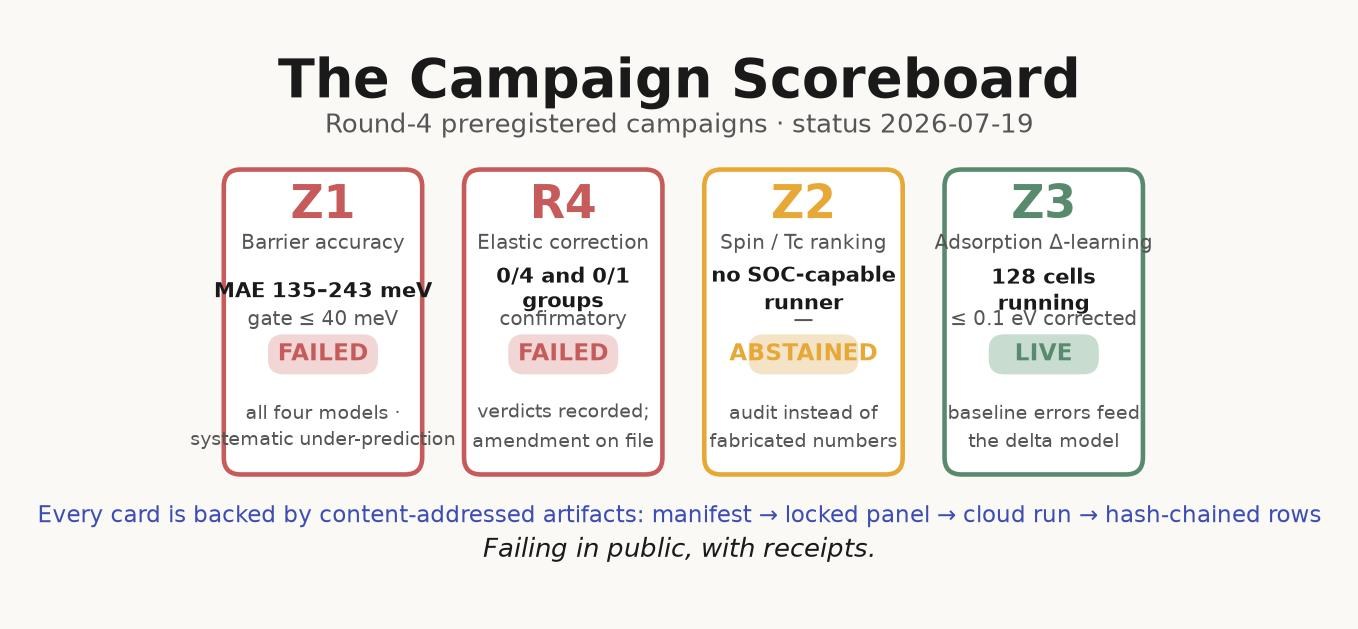
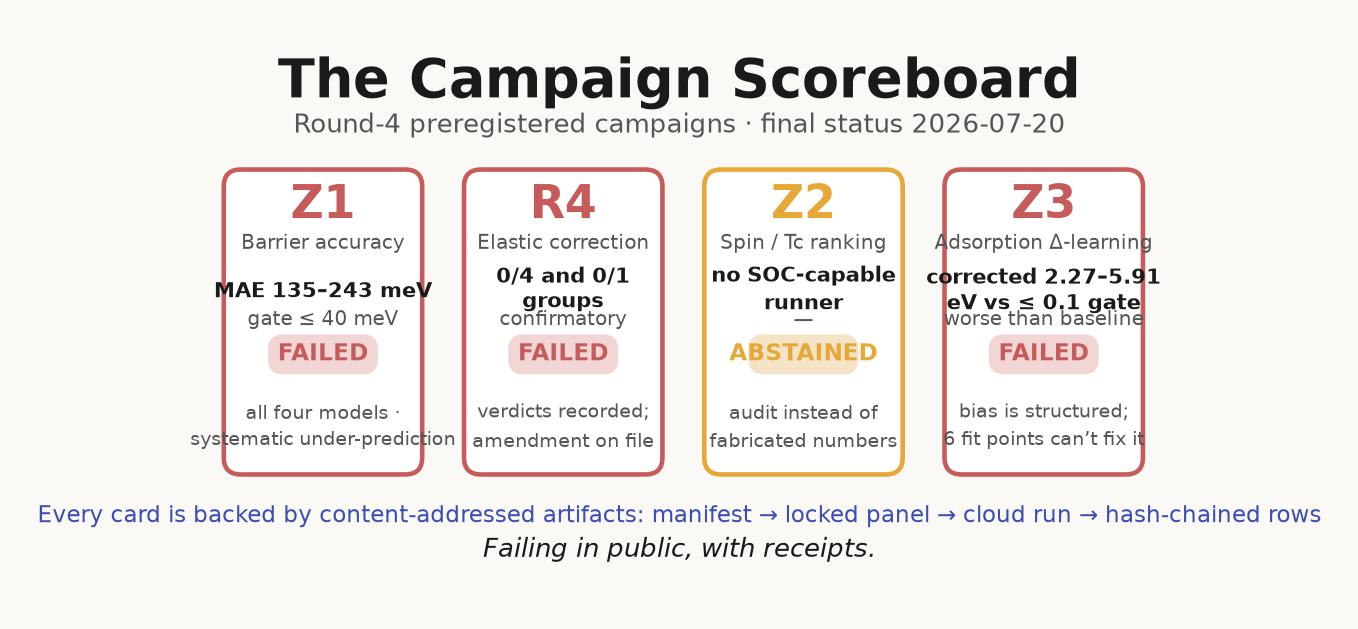
feat(article): four-gates final status — Z3 verdict + Z1 float64 confirmation
Z3 section rewritten with the complete verdict: baseline table and the
refuted delta correction (corrected holdout worse than raw baseline for
all four models; structured-bias analysis). Z1 section updated: float64
verdicts identical to within 0.1 meV — miss is model error, not noise.
Scoreboard regenerated with Z3 FAILED; lead and next-steps moved to
final status; library.lupine.science linked for the full records.

Local: build + verify + lint + 72 tests green.

Changed region(s): [[0.6804, 0.2719, 0.866, 0.7854], [0.2165, 0.1812, 0.8041, 0.2114], [0.7113, 0.2417, 0.8351, 0.3625]]

diff --git a/public/articles/four-gates-three-honest-failures-one-live-experiment/index.html b/public/articles/four-gates-three-honest-failures-one-live-experiment/index.html
@@ -74,7 +74,7 @@
       <p class="article-kicker" aria-label="Article type">Research note</p>
 <h1>Four Gates, Three Honest Failures, One Live Experiment</h1>
 <p class="article-deck">A plain-language status report on our four preregistered Round-4 campaigns — what we measured, what failed, what is still running, and how you can check every number</p>
-<ul class="article-byline" aria-label="Publication details"><li><time datetime="2026-07-19">July 19, 2026</time></li> <li aria-hidden="true"><span class="byline-sep" aria-hidden="true">·</span></li> <li><span class="article-status">Draft</span></li></ul>
+<ul class="article-byline" aria-label="Publication details"><li><time datetime="2026-07-19">July 19, 2026</time></li> <li aria-hidden="true"><span class="byline-sep" aria-hidden="true">·</span></li> <li><span class="article-status">Published</span></li></ul>
 <figure class="article-hero">
   <picture>
     <img src="/articles/four-gates-three-honest-failures-one-live-experiment/hero.jpg?v=2" alt="" width="1280" height="720" loading="eager" fetchpriority="high" decoding="async">
@@ -83,7 +83,7 @@
 
 <hr>
 <p><img src="images/four-gates-three-honest-failures-one-live-experiment-01-four-gates-scoreboard.jpg?v=2" alt="The Campaign Scoreboard"></p>
-<p class="lead">Every few months we write down, in advance and in public, what our software stack must prove about itself — then we force it to actually try. This week three of those gates reported in. All three answers are "no." The fourth experiment is running as you read this. None of that is a disaster; it is the point of having gates at all. Here is the status of each campaign, in plain language, with the receipts.</p>
+<p class="lead">Every few months we write down, in advance and in public, what our software stack must prove about itself — then we force it to actually try. This week all four of those gates reported in. All four answers are "no" — three failures and one principled abstention. None of that is a disaster; it is the point of having gates at all. Here is the final status of each campaign, in plain language, with the receipts.</p>
 <h2>The setup, in one paragraph</h2>
 <p>Modern “foundation” machine-learning potentials — in our panel, three sizes of MACE and one CHGNet — promise to predict how atoms behave without running expensive quantum simulations. If they were accurate enough, battery materials and catalysts could be screened at computer speed. The question our Round-4 campaigns ask is narrow and unforgiving: <em>accurate enough, by how much, measured against which references, locked before we ran anything?</em> Each campaign has a preregistered acceptance test (a “gate”), a locked panel of test systems, and a pipeline that records every artifact by its content hash — so a number cannot be quietly edited after the fact.</p>
 <h2>Z1 — the battery-barrier test: failed, systematically</h2>
@@ -91,30 +91,68 @@
 <p><strong>The answer.</strong> Not close — and interestingly not close:</p>
 <p><img src="images/four-gates-three-honest-failures-one-live-experiment-02-z1-barrier-mae-vs-gate.jpg?v=2" alt="Z1: all four models miss the barrier gate; every completed path under-predicts the barrier"></p>
 <p>The best model missed by 3.4×, the worst by 6×. More telling than the size of the miss is its <em>shape</em>: for the model with full per-path data, <strong>all 26 completed paths under-predict the barrier</strong>. Random noise scatters in both directions; a one-sided miss is a systematic bias — these models, trained mostly on near-equilibrium structures, consistently underestimate how hard it is for an ion to squeeze through a transition state. That is exactly the failure mode our “Honest Errors” program exists to catch, and it replicates, at 30-chemistry scale, a smaller five-compound result we reported (and retracted the corresponding claim for) last round.</p>
-<p>Two honesty notes. First, 1–4 of the 30 paths per model failed to converge under the frozen protocol; the pipeline records them as failures rather than estimating around them, so the MAEs above are computed only on completed paths. Second, our first execution ran the models at reduced numerical precision (float32) against the vendor’s guidance for geometry optimization. We caught it, fixed it, and re-ran the full panel at float64 — the first run stays on record as executed; the re-run is a separate measurement chain, and we will report both. (Early float64 results were still coming in at publication time.)</p>
+<p>Two honesty notes. First, 1–4 of the 30 paths per model failed to converge under the frozen protocol; the pipeline records them as failures rather than estimating around them, so the MAEs above are computed only on completed paths. Second, our first execution ran the models at reduced numerical precision (float32) against the vendor’s guidance for geometry optimization. We caught it, fixed it, and re-ran the full panel at float64 — the first run stays on record as executed; the re-run is a separate measurement chain, and we report both. <strong>The float64 verdicts are identical to within 0.1 meV (135.0 / 151.9 / 174.7 / 242.5): the miss is model error, not numerical noise — full stop.</strong></p>
 <h2>Round-4 — the elastic-correction test: failed, with an amendment on file</h2>
 <p><strong>The question.</strong> Can our correction layer improve foundation-model predictions of basic mechanical properties (lattice constant, bulk modulus, elastic constants) on held-out materials?</p>
 <p><strong>The answer.</strong> No — both confirmatory groups failed (0/4 and 0/1). We also found, in pre-review before ingestion, that we had violated our own preregistration: the analysis tool was written <em>after</em> the candidate lock it was supposed to precede, one property (B₀) was counted in a denominator the preregistration said was descriptive-only, and some elastic numbers rested on shakier methodology than the claim required. Rather than tidy that up quietly, we filed an <strong>amendment</strong> alongside the results that records each violation, what was repaired, and what cannot be retroactively rescued. The verdicts did not change under the repairs — they were failures either way, and they are now immutable, hash-verified failures.</p>
 <h2>Z2 — the magnetism test: abstained, on purpose</h2>
 <p><strong>The question.</strong> Can the panel rank magnetic-anisotropy and ordering temperatures?</p>
 <p><strong>The answer.</strong> We can’t ask it — not honestly. None of the declared available models exposes the spin-orbit / non-collinear machinery the measurement requires, and no suitable locked reference panel exists. The old move in this situation is to run <em>something</em> and spin the story. Our move was an <strong>abstention audit</strong>: a content-addressed document stating precisely what can and cannot be claimed, plus one hash-chained “unsupported” row per model. Building a spin-capable runner is now a scoped engineering task, parked until the current campaigns close.</p>
-<h2>Z3 — the catalyst-adsorption test: live right now</h2>
+<h2>Z3 — the catalyst-adsorption test: failed, and the failure taught us why</h2>
 <p><strong>The question.</strong> Can a small <em>correction model</em> (Δ-learning) lift foundation-model adsorption energies to within <strong>0.1 eV</strong> of published DFT references on 20 held-out catalyst systems — the accuracy catalyst screening needs?</p>
-<p><strong>The status.</strong> Running. The baseline measurements — 4 models × 32 systems on Cloud Run — are executing as of this writing. And the very first baseline datapoint explains why the campaign is designed this way:</p>
+<p><strong>The answer.</strong> No — and the reason is more useful than a pass would have been. The baseline measurements (4 models × 32 systems, 128/128 completed, zero failures) confirmed the first datapoint’s pattern at panel scale: every MACE variant underbinds nearly everything, with errors from −1 to <strong>+25.6 eV</strong> growing with molecule size.</p>
 <p><img src="images/four-gates-three-honest-failures-one-live-experiment-03-z3-interface-error-anatomy.jpg?v=2" alt="Z3 first datapoint: the whole miss lives at the interface"></p>
-<p>For a 43-atom biomass molecule on nickel, the model’s total-energy errors on the separate pieces are modest — but the <em>interface</em> is off by <strong>+9.8 eV</strong>. The model barely binds a molecule that DFT (with dispersion corrections) binds strongly. That is chemically sensible: foundation models are trained mostly on bulk crystals, without the long-range dispersion physics that glues big organic molecules to metal surfaces. A systematic, physically-understood bias is precisely what Δ-learning can correct — the campaign fits the correction on 6 training systems, validates on 6 more, and only then scores the 20 held-out systems. Whether it clears the 0.1 eV gate is what the next field note will report.</p>
+<p>Then came the honest part. The correction model was fitted on the 6 training systems and selected on the 6 validation systems, exactly as frozen — and on the 20-system holdout, <strong>every selected correction made things worse than doing nothing</strong>:</p>
+<table>
+<thead>
+<tr>
+<th>Model</th>
+<th>Raw baseline MAE</th>
+<th>After Δ-correction</th>
+<th>Gate ≤ 0.1 eV</th>
+</tr>
+</thead>
+<tbody>
+<tr>
+<td>chgnet</td>
+<td>0.69 eV</td>
+<td>2.27 eV</td>
+<td>✗</td>
+</tr>
+<tr>
+<td>mace-mp-medium</td>
+<td>2.11 eV</td>
+<td>5.01 eV</td>
+<td>✗</td>
+</tr>
+<tr>
+<td>mace-mp-small</td>
+<td>3.24 eV</td>
+<td>5.00 eV</td>
+<td>✗</td>
+</tr>
+<tr>
+<td>mace-mpa-0-medium</td>
+<td>4.27 eV</td>
+<td>5.91 eV</td>
+<td>✗</td>
+</tr>
+</tbody>
+</table>
+<p>A single average shift is wrong for every family at once; a size-based fit trained on two giant plastics molecules extrapolates badly. The bias is <em>structured</em> — it depends on chemistry and molecule size — so six training points cannot learn a general fix. That is a real result: it tells us exactly what a working correction would need (a much bigger fit budget, or physics features like contact-atom counts), and it rules out the easy version forever.</p>
+<p>The best bare-model number, chgnet’s 0.69 eV, is still 6.9× the screening gate: <strong>no current foundation MLIP is catalyst-screening accurate on adsorbates this size.</strong> Combined with Z1’s barriers and Round-4’s elastics, that is three independent measurements of the same systematic direction: these models underbind — at transition states and at interfaces alike.</p>
 <h2>Why you can check all of this</h2>
 <p>Every stage of every campaign is content-addressed: the manifest we preregistered, the locked panels, each cloud artifact, the measurement rows, and the claims registry that turns rows into verdicts. If any number in this article were edited after the fact, the hashes would stop verifying and the pipeline would refuse to publish it.</p>
 <p><img src="images/four-gates-three-honest-failures-one-live-experiment-04-receipts-pipeline.jpg?v=2" alt="The receipts pipeline: manifest → locked panel → cloud execution → measurement rows → ingestion and gates"></p>
 <p>The formal machinery is equally explicit about its limits: the claims registry marks every gate <strong>unsupported</strong> until real ingestion lands, and the Lean gate-clearance theorems are labeled, in their own source, as scaffolding placeholders awaiting that evidence. We do not cite ourselves; every reference panel comes from published, external science.</p>
 <h2>What happens next</h2>
 <ul>
-<li><strong>Z1:</strong> float64 re-run completes; both precision chains are reported, then ingestion turns the rows into a formal gate verdict (expected: fail — recorded, not buried).</li>
-<li><strong>Z3:</strong> baseline fan-out completes; the Δ-model is fit on train/validation splits and scored on the 20-system holdout. That is the campaign’s real question.</li>
+<li><strong>Z1:</strong> both precision chains are in and identical; ingestion turns the rows into a formal gate verdict (expected: fail — recorded, not buried).</li>
+<li><strong>Z3:</strong> complete — baseline table and the refuted Δ-correction are on record; a viable retry needs a bigger fit budget or physics features, under a new preregistration.</li>
 <li><strong>Round-4:</strong> a relaxed-ion elastic recompute is queued as scoped follow-up work.</li>
 <li><strong>Z2:</strong> returns when a spin-capable runner exists.</li>
 </ul>
-<p>Failing in public, with receipts. More soon.</p>
+<p>Every one of these results is or will be on the library shelf (<a href="https://library.lupine.science">library.lupine.science</a>) with the full tables, protocols, and hashes. Failing in public, with receipts. More soon.</p>
 <hr>
 <h2>Sources and provenance</h2>
 <ul>

diff --git a/media/projects/article-visuals/generate_four_gates_status.py b/media/projects/article-visuals/generate_four_gates_status.py
@@ -67,7 +67,7 @@ def scoreboard():
 
     ax.text(64, 66, 'The Campaign Scoreboard', ha='center', va='center',
             fontsize=26, fontweight='bold', color=INK)
-    ax.text(64, 60.5, 'Round-4 preregistered campaigns · status 2026-07-19',
+    ax.text(64, 60.5, 'Round-4 preregistered campaigns · final status 2026-07-20',
             ha='center', va='center', fontsize=12.5, color=SECONDARY)
 
     cards = [
@@ -84,9 +84,10 @@ def scoreboard():
              state='ABSTAINED', color=AMBER, soft=SOFT_AMBER,
              note='audit instead of\nfabricated numbers'),
         dict(x=99, title='Z3', sub='Adsorption Δ-learning',
-             metric='128 cells\nrunning', gate='≤ 0.1 eV corrected',
-             state='LIVE', color=SAGE, soft=SOFT_SAGE,
-             note='baseline errors feed\nthe delta model'),
+             metric='corrected 2.27–5.91\neV vs ≤ 0.1 gate',
+             gate='worse than baseline',
+             state='FAILED', color=ROSE, soft=SOFT_ROSE,
+             note='bias is structured;\n6 fit points can’t fix it'),
     ]
     for c in cards:
         box = FancyBboxPatch((c['x'], 16), 24, 38,

diff --git a/articles/four-gates-three-honest-failures-one-live-experiment.md b/articles/four-gates-three-honest-failures-one-live-experiment.md
@@ -4,13 +4,13 @@
 > **Date:** 2026-07-19  
 > **Deck:** A plain-language status report on our four preregistered Round-4 campaigns — what we measured, what failed, what is still running, and how you can check every number  
 > **Summary:** Three of our four campaign gates have reported in, and all three are failures or abstentions — recorded, hash-locked, and explained. The fourth is running right now. This is what open-science instrumentation looks like when the answers are no.  
-> **Status:** Draft for discussion — Z3 campaign in flight; figures update when it lands
+> **Status:** Final — updated 2026-07-20 with the Z3 verdict and the Z1 float64 confirmation
 
 ---
 
 ![The Campaign Scoreboard](images/four-gates-three-honest-failures-one-live-experiment-01-four-gates-scoreboard.jpg)
 
-<p class="lead">Every few months we write down, in advance and in public, what our software stack must prove about itself — then we force it to actually try. This week three of those gates reported in. All three answers are "no." The fourth experiment is running as you read this. None of that is a disaster; it is the point of having gates at all. Here is the status of each campaign, in plain language, with the receipts.</p>
+<p class="lead">Every few months we write down, in advance and in public, what our software stack must prove about itself — then we force it to actually try. This week all four of those gates reported in. All four answers are "no" — three failures and one principled abstention. None of that is a disaster; it is the point of having gates at all. Here is the final status of each campaign, in plain language, with the receipts.</p>
 
 ## The setup, in one paragraph
 
@@ -26,7 +26,7 @@ Modern "foundation" machine-learning potentials — in our panel, three sizes of
 
 The best model missed by 3.4×, the worst by 6×. More telling than the size of the miss is its *shape*: for the model with full per-path data, **all 26 completed paths under-predict the barrier**. Random noise scatters in both directions; a one-sided miss is a systematic bias — these models, trained mostly on near-equilibrium structures, consistently underestimate how hard it is for an ion to squeeze through a transition state. That is exactly the failure mode our "Honest Errors" program exists to catch, and it replicates, at 30-chemistry scale, a smaller five-compound result we reported (and retracted the corresponding claim for) last round.
 
-Two honesty notes. First, 1–4 of the 30 paths per model failed to converge under the frozen protocol; the pipeline records them as failures rather than estimating around them, so the MAEs above are computed only on completed paths. Second, our first execution ran the models at reduced numerical precision (float32) against the vendor's guidance for geometry optimization. We caught it, fixed it, and re-ran the full panel at float64 — the first run stays on record as executed; the re-run is a separate measurement chain, and we will report both. (Early float64 results were still coming in at publication time.)
+Two honesty notes. First, 1–4 of the 30 paths per model failed to converge under the frozen protocol; the pipeline records them as failures rather than estimating around them, so the MAEs above are computed only on completed paths. Second, our first execution ran the models at reduced numerical precision (float32) against the vendor's guidance for geometry optimization. We caught it, fixed it, and re-ran the full panel at float64 — the first run stays on record as executed; the re-run is a separate measurement chain, and we report both. **The float64 verdicts are identical to within 0.1 meV (135.0 / 151.9 / 174.7 / 242.5): the miss is model error, not numerical noise — full stop.**
 
 ## Round-4 — the elastic-correction test: failed, with an amendment on file
 
@@ -40,15 +40,26 @@ Two honesty notes. First, 1–4 of the 30 paths per model failed to converge und
 
 **The answer.** We can't ask it — not honestly. None of the declared available models exposes the spin-orbit / non-collinear machinery the measurement requires, and no suitable locked reference panel exists. The old move in this situation is to run *something* and spin the story. Our move was an **abstention audit**: a content-addressed document stating precisely what can and cannot be claimed, plus one hash-chained "unsupported" row per model. Building a spin-capable runner is now a scoped engineering task, parked until the current campaigns close.
 
-## Z3 — the catalyst-adsorption test: live right now
+## Z3 — the catalyst-adsorption test: failed, and the failure taught us why
 
 **The question.** Can a small *correction model* (Δ-learning) lift foundation-model adsorption energies to within **0.1 eV** of published DFT references on 20 held-out catalyst systems — the accuracy catalyst screening needs?
 
-**The status.** Running. The baseline measurements — 4 models × 32 systems on Cloud Run — are executing as of this writing. And the very first baseline datapoint explains why the campaign is designed this way:
+**The answer.** No — and the reason is more useful than a pass would have been. The baseline measurements (4 models × 32 systems, 128/128 completed, zero failures) confirmed the first datapoint's pattern at panel scale: every MACE variant underbinds nearly everything, with errors from −1 to **+25.6 eV** growing with molecule size.
 
 ![Z3 first datapoint: the whole miss lives at the interface](images/four-gates-three-honest-failures-one-live-experiment-03-z3-interface-error-anatomy.jpg)
 
-For a 43-atom biomass molecule on nickel, the model's total-energy errors on the separate pieces are modest — but the *interface* is off by **+9.8 eV**. The model barely binds a molecule that DFT (with dispersion corrections) binds strongly. That is chemically sensible: foundation models are trained mostly on bulk crystals, without the long-range dispersion physics that glues big organic molecules to metal surfaces. A systematic, physically-understood bias is precisely what Δ-learning can correct — the campaign fits the correction on 6 training systems, validates on 6 more, and only then scores the 20 held-out systems. Whether it clears the 0.1 eV gate is what the next field note will report.
+Then came the honest part. The correction model was fitted on the 6 training systems and selected on the 6 validation systems, exactly as frozen — and on the 20-system holdout, **every selected correction made things worse than doing nothing**:
+
+| Model | Raw baseline MAE | After Δ-correction | Gate ≤ 0.1 eV |
+|---|---|---|---|
+| chgnet | 0.69 eV | 2.27 eV | ✗ |
+| mace-mp-medium | 2.11 eV | 5.01 eV | ✗ |
+| mace-mp-small | 3.24 eV | 5.00 eV | ✗ |
+| mace-mpa-0-medium | 4.27 eV | 5.91 eV | ✗ |
+
+A single average shift is wrong for every family at once; a size-based fit trained on two giant plastics molecules extrapolates badly. The bias is *structured* — it depends on chemistry and molecule size — so six training points cannot learn a general fix. That is a real result: it tells us exactly what a working correction would need (a much bigger fit budget, or physics features like contact-atom counts), and it rules out the easy version forever.
+
+The best bare-model number, chgnet's 0.69 eV, is still 6.9× the screening gate: **no current foundation MLIP is catalyst-screening accurate on adsorbates this size.** Combined with Z1's barriers and Round-4's elastics, that is three independent measurements of the same systematic direction: these models underbind — at transition states and at interfaces alike.
 
 ## Why you can check all of this
 
@@ -60,12 +71,12 @@ The formal machinery is equally explicit about its limits: the claims registry m
 
 ## What happens next
 
-- **Z1:** float64 re-run completes; both precision chains are reported, then ingestion turns the rows into a formal gate verdict (expected: fail — recorded, not buried).
-- **Z3:** baseline fan-out completes; the Δ-model is fit on train/validation splits and scored on the 20-system holdout. That is the campaign's real question.
+- **Z1:** both precision chains are in and identical; ingestion turns the rows into a formal gate verdict (expected: fail — recorded, not buried).
+- **Z3:** complete — baseline table and the refuted Δ-correction are on record; a viable retry needs a bigger fit budget or physics features, under a new preregistration.
 - **Round-4:** a relaxed-ion elastic recompute is queued as scoped follow-up work.
 - **Z2:** returns when a spin-capable runner exists.
 
-Failing in public, with receipts. More soon.
+Every one of these results is or will be on the library shelf ([library.lupine.science](https://library.lupine.science)) with the full tables, protocols, and hashes. Failing in public, with receipts. More soon.
 
 ---
 